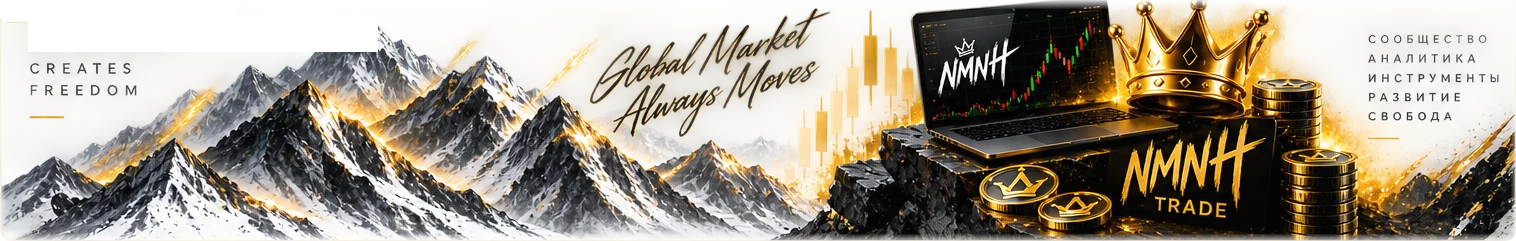
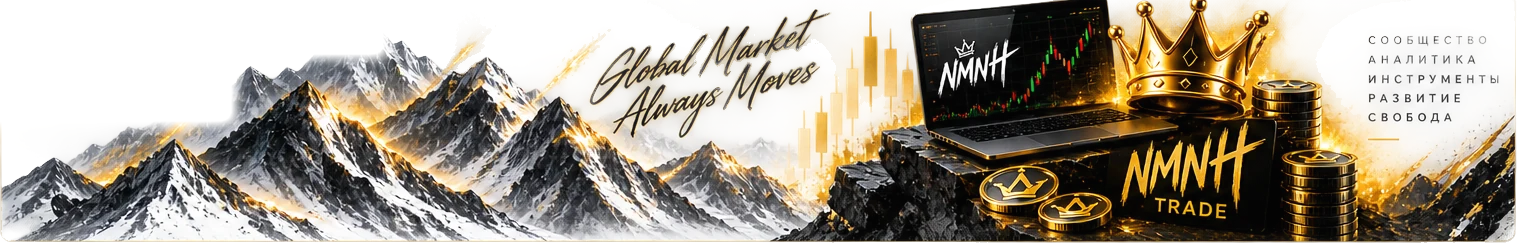
feat(profile): профиль по макету - баннер NMNH, WEEX, золотые переключатели
- Карточка аккаунта: аватар 80 точек в золотом кольце (или в купленной
  рамке), крупные ник и баланс, справа горы с короной и NMNH, тающие к
  имени.
- Биржевой счёт: 3D-блок WEEX справа, кнопки «Обновить» и «Изменить»
  золотой обводкой.
- Настройки: выбранный вариант переключателя - золотом.
- Админка и выход - строками меню со стрелкой; внизу большой баннер
  бренда (горы, терминал, корона) с девизом поверх текстом.
- Нижний баннер перерезан: убрана серая дымка листа и запечённый
  девиз в углу, горы стоят на прозрачном в обеих темах.

diff --git a/webapp/app/app/profile/page.tsx b/webapp/app/app/profile/page.tsx
@@ -1,7 +1,7 @@
 "use client";
 
 import { useEffect, useState } from "react";
-import { Key, LogOut, MonitorDown, Moon, RefreshCw, ShieldCheck, Sun, Volume2, VolumeX } from "lucide-react";
+import { ChevronRight, Key, LogOut, MonitorDown, Moon, RefreshCw, ShieldCheck, Sun, Volume2, VolumeX } from "lucide-react";
 import { api, API_URL, Profile } from "@/lib/api";
 import { getAccessToken, logout } from "@/lib/auth";
 import { profileChanged } from "@/lib/profileEvent";
@@ -16,12 +16,24 @@ import { setSoundOn, useSoundOn } from "@/lib/notifySound";
 import { intlLocale, setLocale, useLocale, useT, type Locale } from "@/lib/i18n";
 import { PaneHead, PaneScope } from "@/components/app/Pane";
 import FramedAvatar from "@/components/avatar/FramedAvatar";
+import Motto, { BRAND_MOTTO } from "@/components/app/Motto";
 
 const ADMIN_WEEX_UID = "6613031308";
 
 // Карточки красятся палитрой темы: страница светлеет вместе с терминалом, а
 // неоновая бирюза, вписанная числом, на белом листе слепит.
 const CARD = "rounded-xl border border-[var(--pane-border)] bg-[var(--pane-bg)] p-3";
+
+// Кнопки действий - золотой обводкой, как на макете: «Обновить», «Изменить».
+const GOLD_BTN =
+  "flex items-center gap-1.5 rounded-lg border border-accent-gold/60 bg-[color:color-mix(in_srgb,var(--pane-gold)_8%,transparent)] " +
+  "px-3 py-2 text-[12px] font-semibold text-[var(--pane-gold)] transition-colors duration-150 " +
+  "hover:bg-[color:color-mix(in_srgb,var(--pane-gold)_15%,transparent)]";
+
+// Выбранный вариант переключателя - золотом, остальные приглушены.
+const SEG_ON =
+  "border border-accent-gold/60 bg-[color:color-mix(in_srgb,var(--pane-gold)_12%,transparent)] text-[var(--pane-text)]";
+const SEG_OFF = "border border-transparent text-[var(--pane-muted)] hover:text-[var(--pane-text-2)]";
 
 export default function ProfilePage() {
   const router = useRouter();
@@ -124,22 +136,38 @@ export default function ProfilePage() {
         {/* Кто я и сколько у меня. Без градиента и свечения: терминал рядом
             собран из ровных панелей, и цветное пятно здесь читалось бы куском
             другого приложения. */}
-        <div className="overflow-hidden rounded-xl border border-[var(--pane-border)] bg-[var(--pane-bg)] p-3">
-          <div className="flex items-center gap-3">
+        <div className="relative overflow-hidden rounded-xl border border-[var(--pane-border)] bg-[var(--pane-bg)] p-4">
+          {/* Горы с короной и NMNH - за правой половиной карточки, к левому
+              краю тают: имя и баланс стоят на чистом поле. */}
+          {/* eslint-disable-next-line @next/next/no-img-element */}
+          <img
+            src="/art/brand/banner-nmnh.webp"
+            alt=""
+            aria-hidden
+            className="pointer-events-none absolute inset-y-0 right-0 hidden h-full w-[64%] object-cover object-left sm:block"
+            style={{
+              maskImage: "linear-gradient(90deg, transparent 0%, #000 38%)",
+              WebkitMaskImage: "linear-gradient(90deg, transparent 0%, #000 38%)",
+            }}
+          />
+          <div className="relative flex items-center gap-4">
             {/* Аватарка из Telegram, если она есть. Файл отдаёт бэкенд, поэтому
                 к пути добавляем API_URL: сайт живёт на другом домене. Нет
                 аватарки - остаётся буква, как было. */}
             {/* В рамке, купленной в маркете: квадрат со скруглением 8 точек,
                 как в наборе рамок. Рамка выходит наружу и места не занимает. */}
             <div className="relative shrink-0">
-              <FramedAvatar
-                src={p.avatar_url ? `${API_URL}${p.avatar_url}` : null}
-                name={p.username || initial || t.profile.avatarAlt}
-                size={44}
-                shape="square"
-                radius={8}
-                frame={p.avatar_frame}
-              />
+              <div
+                className={`rounded-full ${p.avatar_frame ? "" : "p-[3px] shadow-[0_6px_20px_-6px_rgba(240,185,11,0.6)]"}`}
+                style={p.avatar_frame ? undefined : { background: "linear-gradient(135deg, #f5d27a, #b8860b 55%, #f0b90b)" }}
+              >
+                <FramedAvatar
+                  src={p.avatar_url ? `${API_URL}${p.avatar_url}` : null}
+                  name={p.username || initial || t.profile.avatarAlt}
+                  size={80}
+                  frame={p.avatar_frame}
+                />
+              </div>
               {isAdmin && (
                 <span className="absolute -right-1 -top-1 grid h-5 w-5 place-items-center rounded-full bg-[var(--pane-gold)]">
                   <ShieldCheck className="h-3 w-3 text-[var(--pane-bg)]" />
@@ -147,16 +175,16 @@ export default function ProfilePage() {
               )}
             </div>
             <div className="min-w-0">
-              <div className="truncate text-[13px] font-semibold text-[var(--pane-text)]">@{p.username || "-"}</div>
-              <div className="font-mono text-[11px] text-[var(--pane-muted)]">WEEX UID: {maskUid(p.weex_uid)}</div>
+              <div className="truncate text-[20px] font-bold text-[var(--pane-text)]">@{p.username || "-"}</div>
+              <div className="mt-0.5 font-mono text-[12px] text-[var(--pane-muted)]">WEEX UID: {maskUid(p.weex_uid)}</div>
             </div>
           </div>
 
           {/* Balance */}
-          <div className="mt-3 flex items-end justify-between border-t border-[var(--pane-border)] pt-3">
+          <div className="relative mt-4 flex items-end justify-between gap-3">
             <div>
-              <div className="text-[10px] font-medium uppercase tracking-wider text-[var(--pane-muted)]">{t.profile.balance}</div>
-              <div className="font-mono text-xl font-bold tabular-nums text-[var(--pane-text)]">
+              <div className="text-[10px] font-semibold uppercase tracking-wider text-[var(--pane-muted)]">{t.profile.balance}</div>
+              <div className="font-mono text-[28px] font-bold leading-tight tabular-nums text-[var(--pane-text)]">
                 {fmtUsd(p.balance_usdt)}
                 <span className="ml-1 text-[11px] font-semibold text-[var(--pane-muted)]">USDT</span>
               </div>
@@ -174,7 +202,7 @@ export default function ProfilePage() {
             <button
               onClick={refreshBalance}
               disabled={refreshing}
-              className="flex items-center gap-1.5 rounded-lg border border-[var(--pane-border)] bg-[var(--pane-hover)] px-2.5 py-1.5 text-[11px] font-semibold text-[var(--pane-accent)] transition-colors hover:border-[var(--pane-accent-soft)] disabled:opacity-50"
+              className={`${GOLD_BTN} disabled:opacity-50`}
             >
               <RefreshCw className={`h-3.5 w-3.5 ${refreshing ? "animate-spin" : ""}`} />
               {t.common.refresh}
@@ -184,9 +212,16 @@ export default function ProfilePage() {
         {/* ── Биржевой счёт ──
             Ключи вводятся в терминале, но вопрос «подключено ли» человек задаёт
             себе здесь - и ответа тут не было вовсе. */}
-        <div className={CARD}>
-          <div className="mb-3 flex items-center justify-between">
-            <span className="text-[12px] font-semibold text-[var(--pane-text)]">
+        <div className={`${CARD} relative overflow-hidden`}>
+          {/* eslint-disable-next-line @next/next/no-img-element */}
+          <img
+            src="/art/brand/weex.webp"
+            alt=""
+            aria-hidden
+            className="pointer-events-none absolute -bottom-2 -right-2 hidden h-32 w-auto sm:block"
+          />
+          <div className="relative mb-3 flex items-center justify-between gap-3 sm:pr-40">
+            <span className="text-[14px] font-bold text-[var(--pane-text)]">
               {t.profile.exchangeTitle}
             </span>
             <span
@@ -198,8 +233,8 @@ export default function ProfilePage() {
             </span>
           </div>
 
-          <div className="flex items-center gap-3">
-            <div className="grid h-10 w-10 shrink-0 place-items-center rounded-xl border border-[var(--pane-border)] bg-[var(--pane-hover)] text-[var(--pane-text-2)]">
+          <div className="relative flex items-center gap-3 sm:pr-40">
+            <div className="grid h-11 w-11 shrink-0 place-items-center rounded-xl border border-accent-gold/40 bg-black text-[var(--pane-gold)]">
               <Key className="h-4 w-4" />
             </div>
             <div className="min-w-0 text-[12px]">
@@ -225,13 +260,13 @@ export default function ProfilePage() {
             </div>
             <button
               onClick={() => setKeysOpen(true)}
-              className="ml-auto shrink-0 rounded-xl border border-[var(--pane-border)] px-3 py-2 text-xs font-semibold text-[var(--pane-text-2)] transition-colors hover:border-[var(--pane-accent-soft)] hover:text-[var(--pane-text)]"
+              className={`ml-auto shrink-0 ${GOLD_BTN}`}
             >
               {exchange?.connected ? t.common.change : t.common.connect}
             </button>
           </div>
 
-          <p className="mt-4 text-[11px] leading-relaxed text-[var(--pane-muted)]">
+          <p className="relative mt-4 text-[11px] leading-relaxed text-[var(--pane-muted)] sm:pr-40">
             {t.profile.keysNote}
           </p>
         </div>
@@ -249,7 +284,7 @@ export default function ProfilePage() {
             мне турбо» и ставились наугад. Данные никуда не делись - ими
             по-прежнему пользуются рассылка сигналов и калькулятор. */}
         <div className={CARD}>
-          <div className="mb-3 text-[12px] font-semibold text-[var(--pane-text)]">{t.profile.settings}</div>
+          <div className="mb-3 text-[14px] font-bold text-[var(--pane-text)]">{t.profile.settings}</div>
 
           <div className="space-y-3">
 
@@ -271,13 +306,13 @@ export default function ProfilePage() {
                       key={value}
                       onClick={() => setTerminalTheme(value)}
                       className={`relative flex flex-1 items-center justify-center gap-1.5 rounded py-1.5 text-[11px] font-semibold transition-colors duration-150 ${
-                        active ? "bg-[var(--pane-hover)] text-[var(--pane-accent)]" : "text-[var(--pane-muted)] hover:text-[var(--pane-text-2)]"
+                        active ? SEG_ON : SEG_OFF
                       }`}
                     >
                       <Icon className="h-3.5 w-3.5" />
                       {label}
                       {active && (
-                        <span className="absolute inset-x-3 bottom-0 h-[2px] rounded-full bg-[var(--pane-accent)]" />
+                        <span className="absolute inset-x-3 bottom-0 h-[2px] rounded-full bg-[var(--pane-gold)]" />
                       )}
                     </button>
                   );
@@ -299,12 +334,12 @@ export default function ProfilePage() {
                       onClick={() => changeLocale(l)}
                       disabled={saving}
                       className={`relative flex-1 rounded py-1.5 text-[11px] font-bold uppercase tracking-wider transition-colors duration-150 disabled:opacity-60 ${
-                        active ? "bg-[var(--pane-hover)] text-[var(--pane-accent)]" : "text-[var(--pane-muted)] hover:text-[var(--pane-text-2)]"
+                        active ? SEG_ON : SEG_OFF
                       }`}
                     >
                       {l}
                       {active && (
-                        <span className="absolute inset-x-3 bottom-0 h-[2px] rounded-full bg-[var(--pane-accent)]" />
+                        <span className="absolute inset-x-3 bottom-0 h-[2px] rounded-full bg-[var(--pane-gold)]" />
                       )}
                     </button>
                   );
@@ -330,13 +365,13 @@ export default function ProfilePage() {
                       key={label}
                       onClick={() => setSoundOn(value)}
                       className={`relative flex flex-1 items-center justify-center gap-1.5 rounded py-1.5 text-[11px] font-semibold transition-colors duration-150 ${
-                        active ? "bg-[var(--pane-hover)] text-[var(--pane-accent)]" : "text-[var(--pane-muted)] hover:text-[var(--pane-text-2)]"
+                        active ? SEG_ON : SEG_OFF
                       }`}
                     >
                       <Icon className="h-3.5 w-3.5" />
                       {label}
                       {active && (
-                        <span className="absolute inset-x-3 bottom-0 h-[2px] rounded-full bg-[var(--pane-accent)]" />
+                        <span className="absolute inset-x-3 bottom-0 h-[2px] rounded-full bg-[var(--pane-gold)]" />
                       )}
                     </button>
                   );
@@ -398,17 +433,30 @@ export default function ProfilePage() {
             </div>
             <span className="text-[12px] font-semibold text-[var(--pane-text)]">{t.profile.adminPanel}</span>
           </div>
-          <span className="text-[var(--pane-gold)]">→</span>
+          <ChevronRight className="h-4 w-4 text-[var(--pane-gold)]" />
         </Link>
       )}
 
       {/* ── LOGOUT ── */}
       <button
         onClick={() => { logout(); router.push("/"); }}
-        className="flex w-full items-center justify-center gap-2 rounded-xl border border-[color:color-mix(in_srgb,var(--pane-down)_25%,transparent)] bg-[color:color-mix(in_srgb,var(--pane-down)_10%,transparent)] py-2.5 text-[12px] font-semibold text-[var(--pane-down)] transition-colors duration-150 hover:bg-[color:color-mix(in_srgb,var(--pane-down)_15%,transparent)]"
+        className="flex w-full items-center gap-3 rounded-xl border border-[var(--pane-border)] bg-[var(--pane-bg)] px-3 py-2.5 text-[12px] font-semibold text-[var(--pane-down)] transition-colors duration-150 hover:bg-[color:color-mix(in_srgb,var(--pane-down)_8%,transparent)]"
       >
-        <LogOut className="h-4 w-4" /> {t.profile.logoutAccount}
+        <span className="grid h-8 w-8 place-items-center rounded-lg border border-[color:color-mix(in_srgb,var(--pane-down)_30%,transparent)]">
+          <LogOut className="h-4 w-4" />
+        </span>
+        <span className="flex-1 text-left">{t.profile.logoutAccount}</span>
+        <ChevronRight className="h-4 w-4 text-[var(--pane-muted)]" />
       </button>
+
+      {/* Нижний баннер бренда: горы, терминал и корона. Запечённый девиз из
+          угла картинки стёрт - он набран поверх текстом и читается в обеих
+          темах. */}
+      <div className="relative hidden overflow-hidden sm:block">
+        {/* eslint-disable-next-line @next/next/no-img-element */}
+        <img src="/art/brand/banner-bottom.webp" alt="" aria-hidden className="w-full" />
+        <Motto lines={BRAND_MOTTO} className="absolute left-[2%] top-[14%] !text-[11px] !tracking-[0.4em]" />
+      </div>
 
       {/* Окно ключей - то же самое, что в терминале. Оно красится палитрой
           панелей, а она живёт на классе: без обёртки переменные не подставятся
